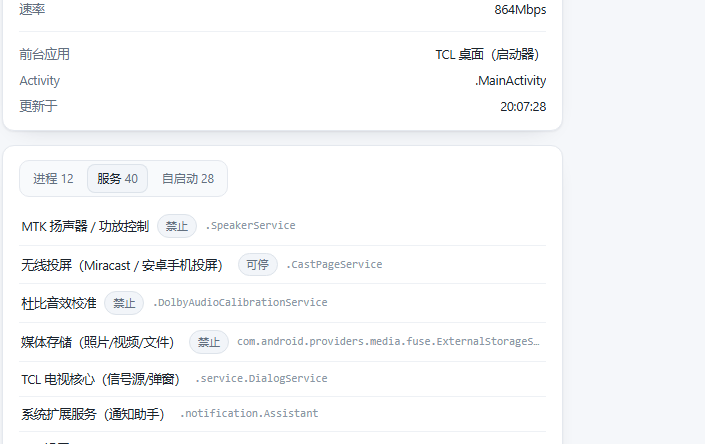
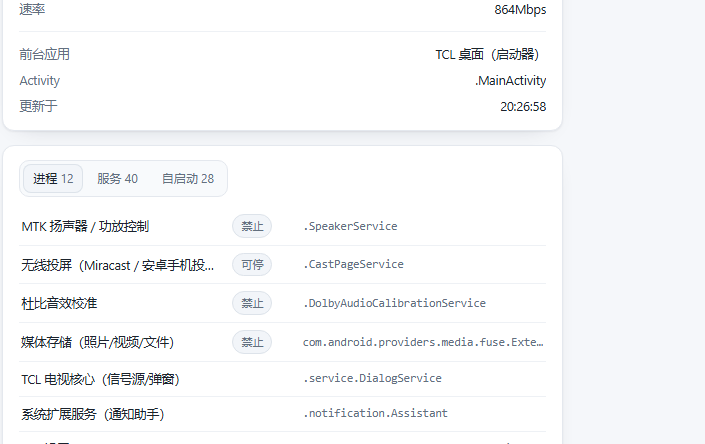
style(ui): 列表改网格对齐、提升包名可读性、细化滚动条与按钮
- 进程/服务/自启动/应用列表由 flex 改为 grid，标签固定列宽（服务/自启动 60px），
  包名起始位置不再随标签有无而跳动
- 包名/版本号颜色 --dim2 -> --dim、字号 11 -> 11.5px（浅色下对比度 2.9:1 -> 4.6:1）
- 版本号与内存值改等宽 + 右对齐（tabular-nums）
- 卸载按钮虚线边框并与停用拉开间距，按钮内边距加大防误触
- 列表 max-height 340 -> 380px，滚动条改细（8px，圆角）
- 窄屏（<=560px）列表降为两列，包名换行显示，避免挤压
- 预览图为新样式 + 真实数据（1680x1553 / 705x444）

diff --git a/web/index.html b/web/index.html
@@ -95,22 +95,30 @@ main{max-width:1400px;margin:0 auto;padding:18px 20px 48px}
 .filter{display:flex;gap:8px;margin:-2px 0 10px}
 .filter .input{flex:1;min-width:0}
 .filter .select{flex:0 0 auto}
-.list{list-style:none;margin:0;padding:0;max-height:340px;overflow:auto}
+.list{list-style:none;margin:0;padding:0;max-height:380px;overflow:auto;
+  scrollbar-width:thin;scrollbar-color:var(--btnline) transparent}
+.list::-webkit-scrollbar{width:8px}
+.list::-webkit-scrollbar-track{background:transparent}
+.list::-webkit-scrollbar-thumb{background:var(--btnline);border-radius:8px;border:2px solid var(--card)}
 .list li{
-  display:flex;align-items:center;gap:8px;padding:7px 2px;border-bottom:1px solid var(--line2);
+  display:grid;align-items:center;gap:10px;padding:7px 2px;border-bottom:1px solid var(--line2);
   font-size:12.5px;min-width:0;
 }
 .list li:last-child{border-bottom:0}
-.list .name{overflow:hidden;text-overflow:ellipsis;white-space:nowrap}
-.list .pkg{color:var(--dim2);font-size:11px;overflow:hidden;text-overflow:ellipsis;white-space:nowrap;flex:1;min-width:40px}
-.list .val{color:var(--dim);font-size:11.5px;white-space:nowrap}
-.list.apps li{flex-wrap:wrap}
-.list.apps .name{flex:1 1 auto;max-width:40%;min-width:0}
-.list.apps .pkg{flex:1 1 120px}
-.row-acts{display:flex;gap:5px;flex:0 0 auto;margin-left:auto}
-.row-acts button{padding:3px 8px;font-size:11px;border-radius:7px}
-.row-acts button.danger{color:var(--bad)}
-.row-acts button.danger:hover{border-color:var(--bad)}
+.list .name{overflow:hidden;text-overflow:ellipsis;white-space:nowrap;color:var(--txt)}
+.list .pkg{color:var(--dim);font-size:11.5px;overflow:hidden;text-overflow:ellipsis;white-space:nowrap}
+.list .val{color:var(--dim);font-size:11.5px;white-space:nowrap;text-align:right;
+  font-variant-numeric:tabular-nums;font-family:ui-monospace,SFMono-Regular,Menlo,Consolas,monospace}
+.tagcol{display:flex}
+.tagcol .chip{white-space:nowrap}
+#proc li{grid-template-columns:minmax(0,1fr) minmax(0,1.1fr) 60px}
+#svc li,#boot li{grid-template-columns:minmax(0,1fr) 60px minmax(0,1.2fr)}
+#wl li{grid-template-columns:minmax(0,1fr) minmax(0,1.2fr)}
+.list.apps li{grid-template-columns:minmax(0,1fr) minmax(0,1.05fr) 64px auto}
+.row-acts{display:flex;gap:5px;justify-content:flex-end}
+.row-acts button{padding:4px 9px;font-size:11px;border-radius:7px}
+.row-acts button.danger{color:var(--bad);margin-left:2px;border-style:dashed}
+.row-acts button.danger:hover{border-color:var(--bad);background:var(--card2)}
 
 .tabs{display:flex;gap:4px;background:var(--card2);border:1px solid var(--line);border-radius:10px;padding:3px}
 .tab{background:transparent;border:0;padding:5px 10px;font-size:12px;color:var(--dim);border-radius:8px}
@@ -162,8 +170,14 @@ main{max-width:1400px;margin:0 auto;padding:18px 20px 48px}
 @media (max-width:560px){
   body{overflow-x:hidden}
   main{padding:14px 12px 40px}
-  .list.apps .name{max-width:100%;flex:1 1 100%}
-  .list.apps .pkg{flex:1 1 100%;order:3}
+  #proc li,#svc li,#boot li,#wl li{grid-template-columns:minmax(0,1fr) auto}
+  #proc li .pkg,#svc li .pkg,#boot li .pkg,#wl li .pkg{grid-column:1 / -1;white-space:normal;word-break:break-all}
+  #proc li .val{align-self:start}
+  .tagcol{justify-content:flex-end}
+  .list.apps li{grid-template-columns:minmax(0,1fr) auto}
+  .list.apps li .pkg{grid-column:1 / -1}
+  .list.apps li .val{display:none}
+  .row-acts{grid-column:1 / -1;justify-content:flex-end}
   .topbar{padding:10px 12px}
   .kpis{grid-template-columns:1fr 1fr;gap:9px}
   .kpi strong{font-size:17px}
@@ -493,7 +507,7 @@ async function refresh(){
     $('svc').innerHTML = svcs.map(s => `
       <li title="${esc(s.svc || '')}">
         <span class="name">${esc(label(s.pkg))}</span>
-        ${tagOf(s.pkg)}
+        <span class="tagcol">${tagOf(s.pkg)}</span>
         <span class="pkg mono">${esc(s.svc || '')}</span>
       </li>`).join('');
     $('svcN').textContent = svcs.length;
@@ -502,7 +516,7 @@ async function refresh(){
     $('boot').innerHTML = boot.map(x => `
       <li title="${esc(x)}">
         <span class="name">${esc(label(x))}</span>
-        ${tagOf(x)}
+        <span class="tagcol">${tagOf(x)}</span>
         <span class="pkg mono">${esc(x)}</span>
       </li>`).join('');
     $('bootN').textContent = boot.length;
